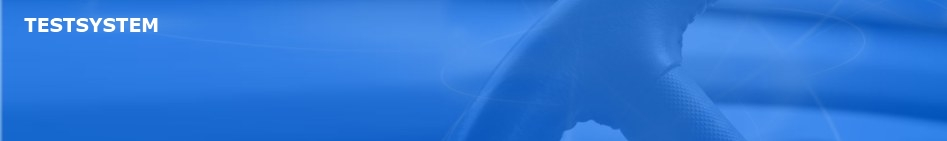
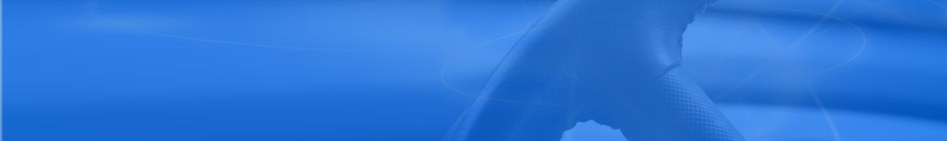
einstellbarer serverindividueller Text im Headerbereich, MVC-Part in "Kauf geprägter Kennzeichen" durch WebForms-Implementation ersetzt

Changed region(s): [[0.0, 0.1135, 0.1837, 0.2553]]

diff --git a/inetpub/wwwroot/PortalZLD/Applications/AppZulassungsdienst/forms/NachGekaufteKennzeichen.aspx.cs b/inetpub/wwwroot/PortalZLD/Applications/AppZulassungsdienst/forms/NachGekaufteKennzeichen.aspx.cs
@@ -4,6 +4,7 @@ using AppZulassungsdienst.lib;
 using CKG.Base.Kernel.Common;
 using CKG.Base.Kernel.Security;
 using System.Web.UI.WebControls;
+using Telerik.Web.UI;
 
 namespace AppZulassungsdienst.forms
 {
@@ -335,6 +336,29 @@ namespace AppZulassungsdienst.forms
             ShowBuchungen(!ibHideBuchungen.Visible);
         }
 
+        protected void rgGrid1_NeedDataSource(object sender, GridNeedDataSourceEventArgs e)
+        {
+            if (!e.IsFromDetailTable)
+            {
+                if (NGK.tblErfassteKennzeichenKopf != null)
+                    rgGrid1.DataSource = NGK.tblErfassteKennzeichenKopf.DefaultView;
+                else
+                    rgGrid1.DataSource = null;
+            }
+        }
+
+        protected void rgGrid1_DetailTableDataBind(object sender, GridDetailTableDataBindEventArgs e)
+        {
+            var bestellNr = e.DetailTableView.ParentItem.GetDataKeyValue("BSTNR").ToString();
+
+            if (!string.IsNullOrEmpty(bestellNr) && NGK.tblErfassteKennzeichenPositionen != null)
+            {
+                var dv = new DataView(NGK.tblErfassteKennzeichenPositionen);
+                dv.RowFilter = "BSTNR = '" + bestellNr + "'";
+                e.DetailTableView.DataSource = dv;
+            }
+        }
+
         #endregion
 
         #region Methods
@@ -502,23 +526,43 @@ namespace AppZulassungsdienst.forms
             lbShowBuchungen.Text = (!show ? "erfasste Käufe..." : "erfasste Käufe schließen!");
 
             ibHideBuchungen.Visible = show;
-            ifrBuchungen.Visible = show;
+            divKaeufe.Visible = show;
 
-            ShowIframeBuchungen(show);
+            if (show)
+            {
+                FillKaeufe();
+                FillGridKaeufe();
+            }
         }
 
-        private void ShowIframeBuchungen(bool show)
+        private void FillGridKaeufe()
         {
-            if (!show)
+            if (NGK.tblErfassteKennzeichenKopf != null && NGK.tblErfassteKennzeichenKopf.Rows.Count > 0)
             {
-                ifrBuchungen.Attributes["src"] = "about:blank";
-                return;
+                rgGrid1.Visible = true;
+                rgGrid1.Rebind();
+                // Setzen der DataSource geschieht durch das NeedDataSource-Event
+                lblNoData.Visible = false;
             }
+            else
+            {
+                rgGrid1.Visible = false;
+                lblNoData.Text = "Keine Daten gefunden";
+                lblNoData.Visible = true;
+            }
+        }
 
+        private void FillKaeufe()
+        {
             if (ddlLiefer.SelectedIndex >= 0 && ddlLiefer.SelectedValue != null)
             {
-                ifrBuchungen.Attributes["src"] = string.Format("/PortalZLD_AppZulassungsdienst/NachGekaufteKennzeichen/Index/{0}_{1}", m_User.UserID, ddlLiefer.SelectedValue);
+                NGK.GetKaeufe(ddlLiefer.SelectedValue);
+                Session["NGK"] = NGK;
+
+                lblGewaehlterLieferant.Text = ddlLiefer.SelectedItem.Text;
+                lblAnzahlKaeufe.Text = NGK.tblErfassteKennzeichenKopf.Rows.Count.ToString();
             }
+            else { lblError.Text = "Wählen Sie einen gültigen Lieferanten aus!"; }
         }
 
         #endregion

diff --git a/inetpub/wwwroot/PortalZLD/Applications/AppZulassungsdienst/lib/NacherfassungGekaufteKennzeichen.cs b/inetpub/wwwroot/PortalZLD/Applications/AppZulassungsdienst/lib/NacherfassungGekaufteKennzeichen.cs
@@ -16,6 +16,8 @@ namespace AppZulassungsdienst.lib
         public DataTable tblKennzeichen { get; private set; }
         public DataTable tblArtikel { get; private set; }
         public DataTable tblLieferanten { get; private set; }
+        public DataTable tblErfassteKennzeichenKopf { get; private set; }
+        public DataTable tblErfassteKennzeichenPositionen { get; private set; }
 
         #endregion
 
@@ -293,7 +295,45 @@ namespace AppZulassungsdienst.lib
             }            
             
             return strAufträge;
-        }           
+        }
+
+        internal void GetKaeufe(string LieferantenID)
+        {
+            ExecuteSapZugriff(() =>
+            {
+                Z_FIL_EFA_GEPRAEGTE_KENNZ_LIST.Init(SAP);
+
+                SAP.SetImportParameter("I_KOSTL", VKBUR.PadLeft0(10));
+                SAP.SetImportParameter("I_LIFNR", LieferantenID);
+
+                CallBapi();
+
+                switch (SAP.ResultCode)
+                {
+                    case 104:
+                        RaiseError(SAP.ResultCode, "KST nicht zulässig! Bitte richtige KST eingeben.");
+                        break;
+                }
+
+                tblErfassteKennzeichenKopf = SAP.GetExportTable("GT_PO_K");
+                tblErfassteKennzeichenPositionen = SAP.GetExportTable("GT_PO_P");
+
+                tblErfassteKennzeichenPositionen.Columns.Add("BEDAT", typeof(DateTime));
+                tblErfassteKennzeichenPositionen.Columns.Add("LTEXT", typeof(string));
+
+                var LSTS = new LongStringToSap();
+
+                foreach (DataRow kopfzeile in tblErfassteKennzeichenKopf.Rows)
+                {
+                    var poszeilen = tblErfassteKennzeichenPositionen.Select("BSTNR = '" + kopfzeile["BSTNR"].ToString() + "'");
+                    foreach (var poszeile in poszeilen)
+                    {
+                        poszeile["BEDAT"] = kopfzeile["BEDAT"];
+                        poszeile["LTEXT"] = LSTS.ReadString(poszeile["LTEXT_NR"].ToString());
+                    }
+                }
+            });
+        }
     }
 
     internal struct LieferscheinnummernObj : IComparable<LieferscheinnummernObj>

diff --git a/inetpub/wwwroot/PortalZLD/Applications/AppZulassungsdienst/forms/NachGekaufteKennzeichen.aspx.designer.cs b/inetpub/wwwroot/PortalZLD/Applications/AppZulassungsdienst/forms/NachGekaufteKennzeichen.aspx.designer.cs
@@ -238,13 +238,40 @@ namespace AppZulassungsdienst.forms {
         protected global::System.Web.UI.WebControls.Label lblNoData;
         
         /// <summary>
-        /// ifrBuchungen-Steuerelement
+        /// divKaeufe-Steuerelement
         /// </summary>
         /// <remarks>
         /// Automatisch generiertes Feld
         /// Um dies zu ändern, verschieben Sie die Felddeklaration aus der Designerdatei in eine Code-Behind-Datei.
         /// </remarks>
-        protected global::System.Web.UI.HtmlControls.HtmlGenericControl ifrBuchungen;
+        protected global::System.Web.UI.HtmlControls.HtmlGenericControl divKaeufe;
+        
+        /// <summary>
+        /// lblGewaehlterLieferant-Steuerelement
+        /// </summary>
+        /// <remarks>
+        /// Automatisch generiertes Feld
+        /// Um dies zu ändern, verschieben Sie die Felddeklaration aus der Designerdatei in eine Code-Behind-Datei.
+        /// </remarks>
+        protected global::System.Web.UI.WebControls.Label lblGewaehlterLieferant;
+        
+        /// <summary>
+        /// lblAnzahlKaeufe-Steuerelement
+        /// </summary>
+        /// <remarks>
+        /// Automatisch generiertes Feld
+        /// Um dies zu ändern, verschieben Sie die Felddeklaration aus der Designerdatei in eine Code-Behind-Datei.
+        /// </remarks>
+        protected global::System.Web.UI.WebControls.Label lblAnzahlKaeufe;
+        
+        /// <summary>
+        /// rgGrid1-Steuerelement
+        /// </summary>
+        /// <remarks>
+        /// Automatisch generiertes Feld
+        /// Um dies zu ändern, verschieben Sie die Felddeklaration aus der Designerdatei in eine Code-Behind-Datei.
+        /// </remarks>
+        protected global::Telerik.Web.UI.RadGrid rgGrid1;
         
         /// <summary>
         /// gvArtikel-Steuerelement

diff --git a/inetpub/wwwroot/PortalZLD/Applications/AppZulassungsdienst/MasterPage/App.Master.cs b/inetpub/wwwroot/PortalZLD/Applications/AppZulassungsdienst/MasterPage/App.Master.cs
@@ -1,4 +1,5 @@
 using System;
+using System.Configuration;
 using System.Web;
 using System.Web.UI;
 using System.Text.RegularExpressions;
@@ -23,6 +24,7 @@ namespace AppZulassungsdienst.MasterPage
 
                 //Aktuelles Jahr ins Copyright setzen.
                 lblCopyright.Text = lblCopyright.Text.Replace("year", DateTime.Now.Year.ToString());
+                lblHeaderHint.Text = ConfigurationManager.AppSettings["PortalHeaderHint"];
                 lnkLogout.NavigateUrl = "/PortalZLD/(S(" + Session.SessionID + "))/Start/Logout.aspx";
                 m_User = (CKG.Base.Kernel.Security.User)Session["objUser"];
                 if (m_User == null)

diff --git a/inetpub/wwwroot/PortalZLD/Applications/AppZulassungsdienst/MasterPage/Big.Master.cs b/inetpub/wwwroot/PortalZLD/Applications/AppZulassungsdienst/MasterPage/Big.Master.cs
@@ -1,4 +1,5 @@
 using System;
+using System.Configuration;
 using System.Web;
 using System.Web.UI;
 using System.Text.RegularExpressions;
@@ -21,6 +22,7 @@ namespace AppZulassungsdienst.MasterPage
 
             //Aktuelles Jahr ins Copyright setzen.
             lblCopyright.Text = lblCopyright.Text.Replace("year", DateTime.Now.Year.ToString());
+            lblHeaderHint.Text = ConfigurationManager.AppSettings["PortalHeaderHint"];
             lnkLogout.NavigateUrl = "/PortalZLD/(S(" + Session.SessionID + "))/Start/Logout.aspx";
             m_User = (CKG.Base.Kernel.Security.User)Session["objUser"];
             if (m_User == null)

diff --git a/inetpub/wwwroot/PortalZLD/Applications/AppZulassungsdienst/MasterPage/App.Master.designer.cs b/inetpub/wwwroot/PortalZLD/Applications/AppZulassungsdienst/MasterPage/App.Master.designer.cs
@@ -49,6 +49,15 @@ namespace AppZulassungsdienst.MasterPage {
         protected global::System.Web.UI.UpdateProgress UpdateProgress1;
         
         /// <summary>
+        /// lblHeaderHint-Steuerelement
+        /// </summary>
+        /// <remarks>
+        /// Automatisch generiertes Feld
+        /// Um dies zu ändern, verschieben Sie die Felddeklaration aus der Designerdatei in eine Code-Behind-Datei.
+        /// </remarks>
+        protected global::System.Web.UI.WebControls.Label lblHeaderHint;
+        
+        /// <summary>
         /// imgLogo-Steuerelement
         /// </summary>
         /// <remarks>

diff --git a/inetpub/wwwroot/PortalZLD/Applications/AppZulassungsdienst/MasterPage/Big.Master.designer.cs b/inetpub/wwwroot/PortalZLD/Applications/AppZulassungsdienst/MasterPage/Big.Master.designer.cs
@@ -49,6 +49,15 @@ namespace AppZulassungsdienst.MasterPage {
         protected global::System.Web.UI.UpdateProgress UpdateProgress1;
         
         /// <summary>
+        /// lblHeaderHint-Steuerelement
+        /// </summary>
+        /// <remarks>
+        /// Automatisch generiertes Feld
+        /// Um dies zu ändern, verschieben Sie die Felddeklaration aus der Designerdatei in eine Code-Behind-Datei.
+        /// </remarks>
+        protected global::System.Web.UI.WebControls.Label lblHeaderHint;
+        
+        /// <summary>
         /// imgLogo-Steuerelement
         /// </summary>
         /// <remarks>
